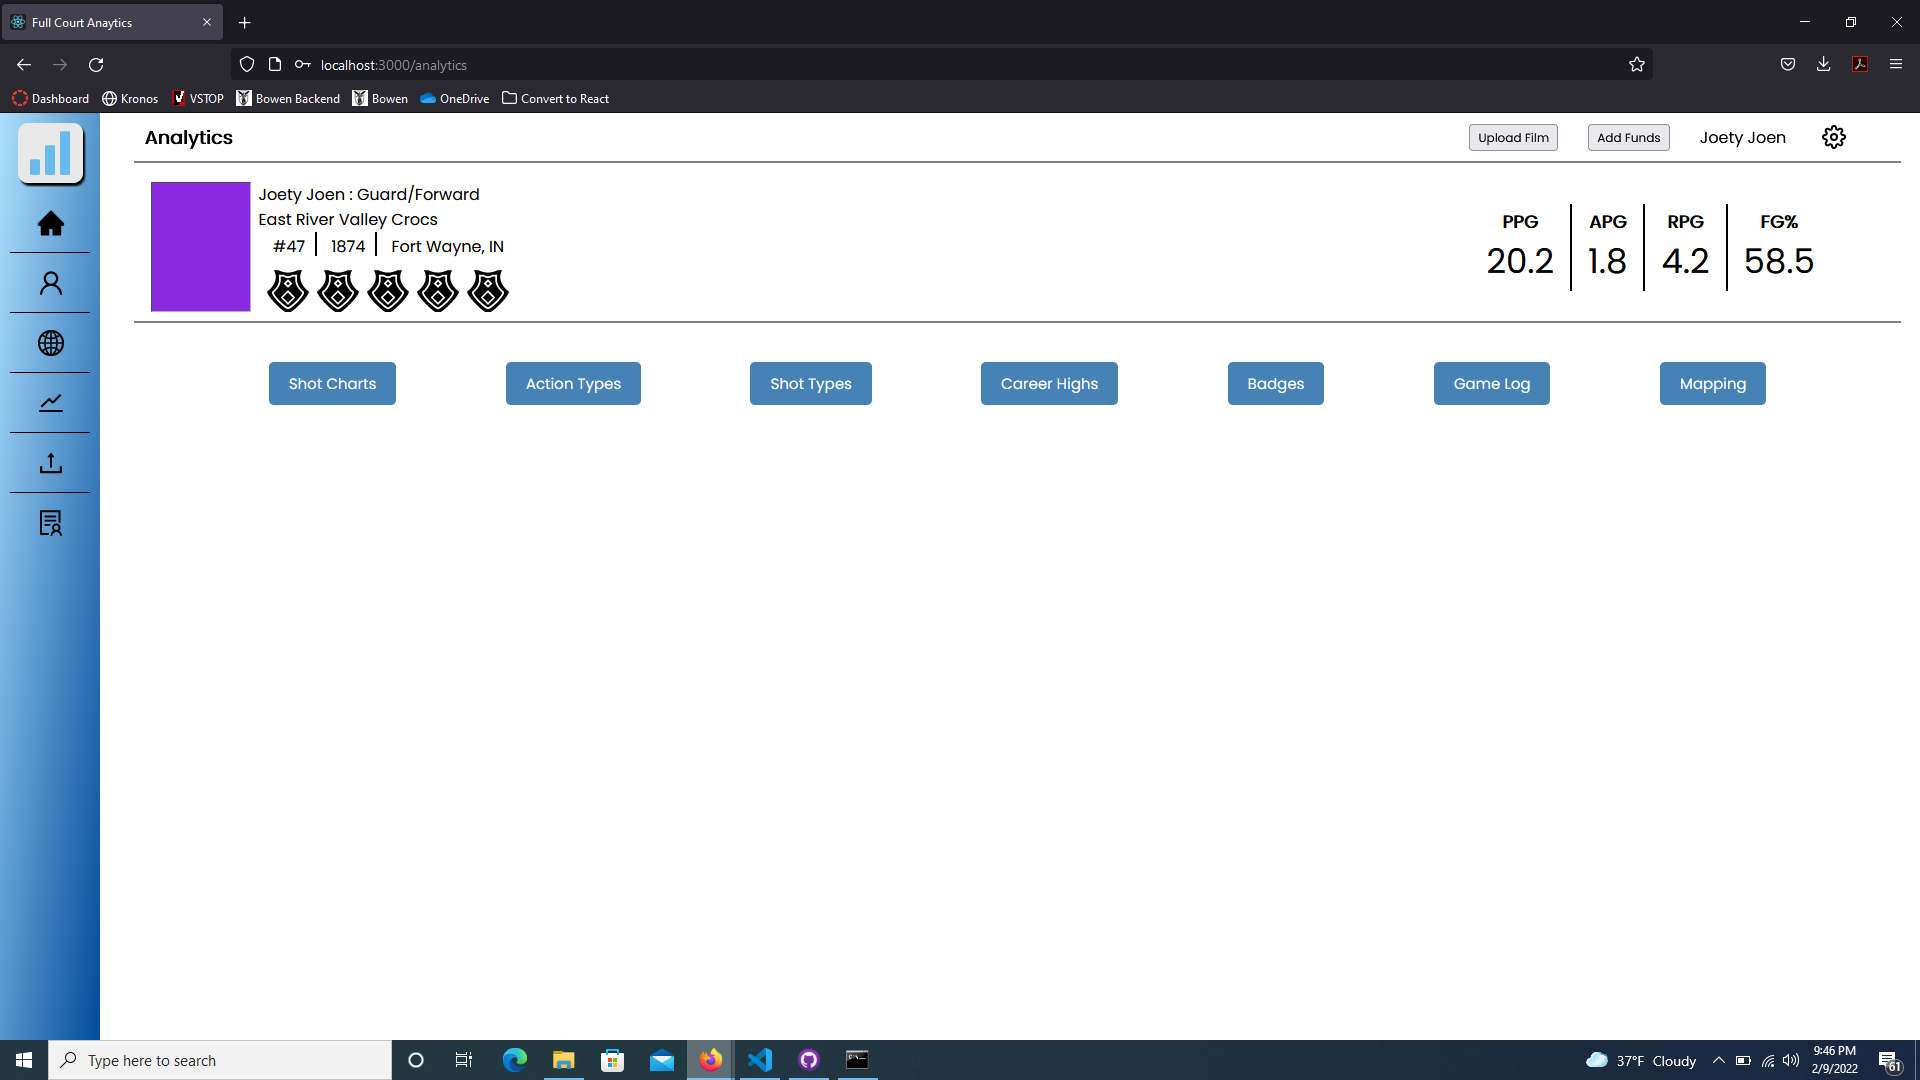
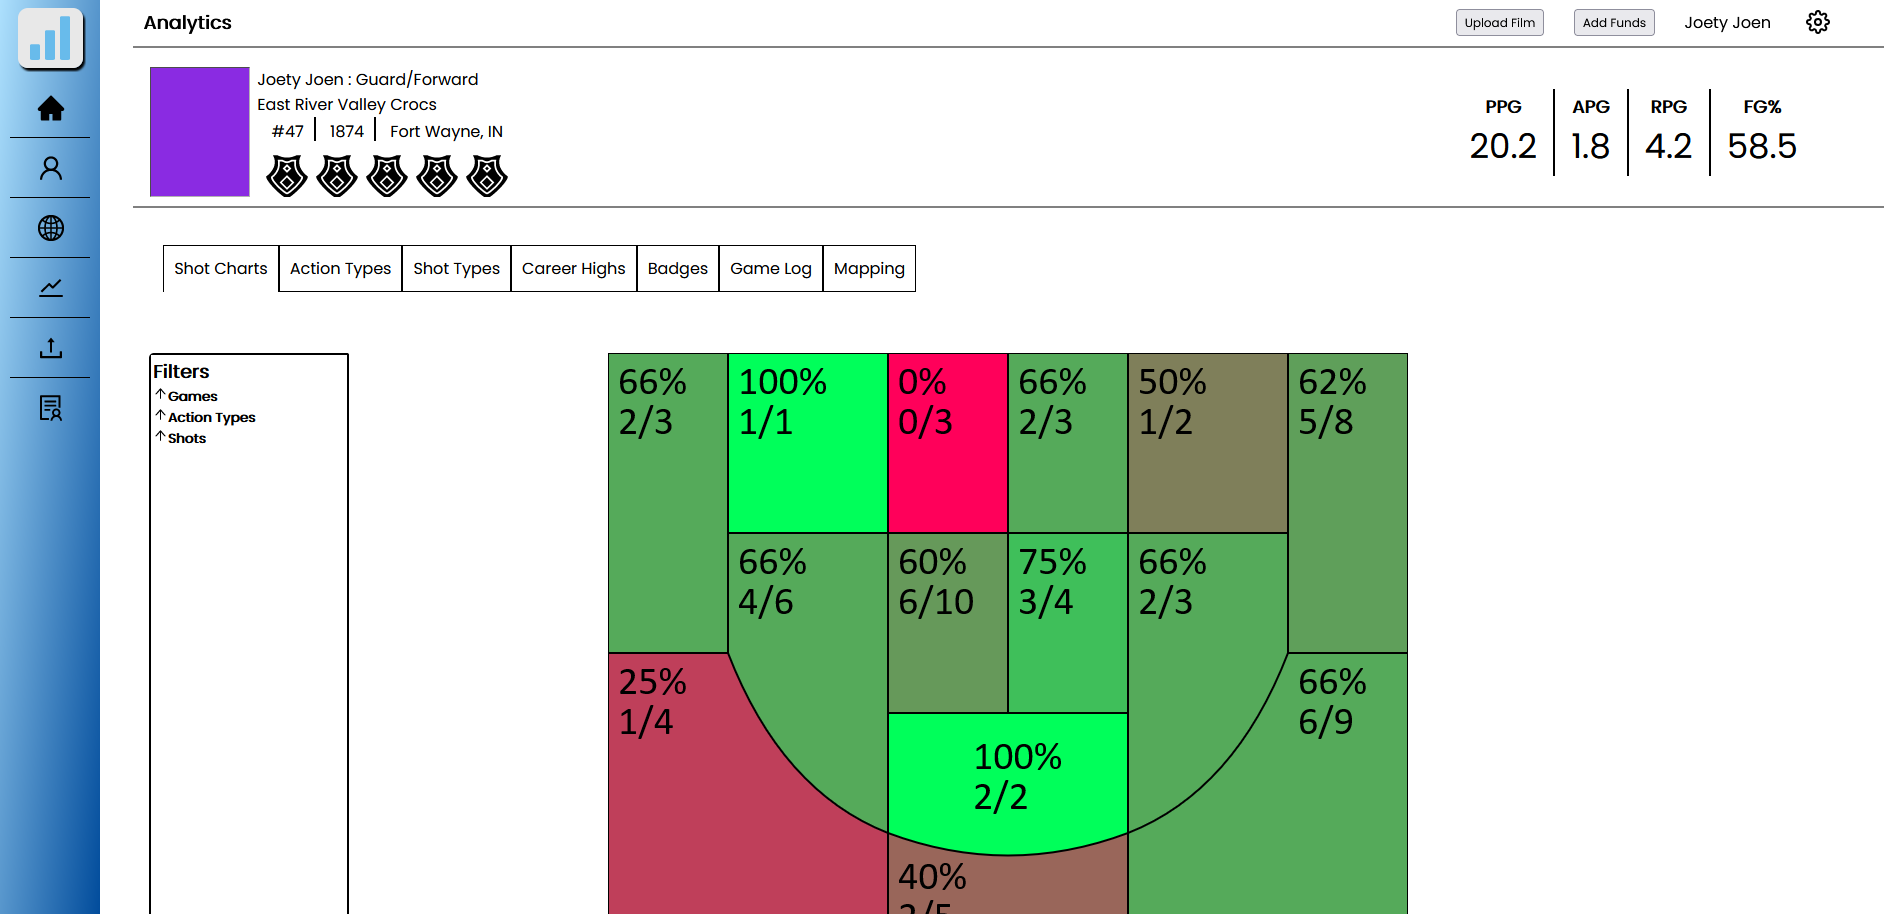
Iteration 4 docs

diff --git a/Documentation/User.md b/Documentation/User.md
@@ -2,62 +2,80 @@
 
 ## **As a player**
 
-Go to fullcourtanyalytics.com
+Navigate to fullcourtanyalytics.com
 
-Log into your account or click *register for an account* at the botton of the screen
+Click *register for an account* at the botton of the screen
 
-If user is registering for an account fill out the form and click register once you've completed (or click "go back" if you already have an account)
+Fill out the form and click register once you've completed
 
-![Screen Shot 2021-12-06 at 8 52 35 PM](https://user-images.githubusercontent.com/70355847/144951502-eb41a8e8-b5d8-4fe7-ad3a-e7e319da1deb.png)
+![Full Court Analytics Registration Form](https://user-images.githubusercontent.com/70355847/144951502-eb41a8e8-b5d8-4fe7-ad3a-e7e319da1deb.png)
 
-Once signed up enter username/email address and password to sign in (skip if you have account)
+Once signed up enter email address and password to sign in
 
-![Screen Shot 2021-12-06 at 8 53 44 PM](https://user-images.githubusercontent.com/70355847/144951614-db3f350d-5849-4982-b71e-b6a90522379f.png)
+![Full Court Analytics Login Page](https://user-images.githubusercontent.com/70355847/144951614-db3f350d-5849-4982-b71e-b6a90522379f.png)
 
 Access the site header settings gear at the top right of the screen
 
-From there you can access the account settings page where it will ask you personal information, fill out the form as much as you want
+![Settings Gear Icon](/assets/gear_icon.png)
 
-![Screen Shot 2021-12-06 at 8 54 44 PM]()
+From there you can access the account settings page by selecting 'Account' where it will ask you personal information, fill out the form as much as you want
+
+![Account Settings Page](/assets/settings_page.png)
 
 Acessing the side bar, you can select the profile page which will have all of your information you just submitted in the account settings page
 
-![Screen Shot 2021-12-06 at 9 57 51 PM](/assets/profile.png)
+![Profile Page](/assets/profile.png)
 
 Accessing the side bar again, you can select the the overview page which will show you 3 circle graphs and a bar graph of your averages
 
-![Screen Shot 2021-12-06 at 10 52 51 PM](/assets/overview.png)
+![Overview Page](/assets/overview.png)
+
+![Overview Page Part 2](/assets/overview_two.png)
 
 Accessing the side bar again, you can select the video upload page where you will find all the videos you have uploaded with some basic information.
 
-![Screen Shot 2021-12-06 at 9 03 53 PM](/assets/uploaded_videos.png)
+![Video Upload Page](/assets/uploaded_videos.png)
 
 Access the site header to fill out the video upload form and insert a youtube link then click the "upload film" button to upload your game film to Full Court Analytics.
-![Video Upload Modal](/assets/upload_modal.png)
+![Video Upload Form](/assets/upload_modal.png)
 
-Accessing the side bar again, you can select the analytics page where you will find multiple buttons:
-![Screen Shot 2021-12-06 at 9 07 51 PM](/assets/analytics.png)
-
+Accessing the side bar again, you can select the analytics page where you will find multiple tabs:
+![Analytics Page](/assets/analytics.png)
 
 Shot Chart:
 Shot charts show the percentage of player shots according to certain game, action type, and shot type filters
-![Screen Shot 2021-12-06 at 9 07 51 PM](/assets/shot_charts.png)
+![Shot Chart Analytics Tab](/assets/analytics.png)
+
+Action Types:
+Action Types show the percentile ranking and a table with more stats for various actions the annotaters record
+![Action Types Analytics Tab](/assets/action_types.png)
+
+Shot Types:
+Shot Types show the percentile ranking and a table with more stats for various shots the annotaters record
+![Action Types Analytics Tab](/assets/action_types.png)
 
 Career Highs:
 Career Highs show the top three career highs based on annotated videos in various categories
-![Screen Shot 2021-12-06 at 9 07 51 PM](/assets/career_highs.png)
+![Career Highs Analytics Tab](/assets/career_highs.png)
 
-Accessing the side bar again, you can select the game log page where you will find a log of all uploaded games and box score:
-![Screen Shot 2021-12-06 at 9 07 51 PM](/assets/game_log.png)
+Badges:
+Badges has the top ten badges the player has earned through their uploaded games that have been annotated
+![Badges Analytics Tab](/assets/badges.png)
+
+Game Log:
+Game Log is where you will find a log of all uploaded games and box scores
+![Game Log Analytics Tab](/assets/game_log.png)
+
+Mapping:
+Mapping has more overall percentile charts and a player map that will distinguish between two different data sets of games for a player and display a skills mapping radar chart
+![Mapping Analytics Tab](/assets/mapping.png)
 
 Accessing the side bar again, you can select the coach contact page where you will find a list of college basketball coaches:
-![Screen Shot 2021-12-06 at 9 07 51 PM](/assets/coach_contact.png)
+![Coach Contact Page](/assets/coach_contact.png)
 
+Once you're done on the website access the gear icon in the top right corner again and select 'Log Out'
 
-
-Once you're done on the website access the side bar to logout which is located at the bottom of the side bar
-
-## **As a Admin**
+## **As an Analyst**
 
 Go to fullcourtanyalytics.com
 
@@ -65,11 +83,11 @@ Log into your account
 
 ![Screen Shot 2021-12-06 at 8 53 44 PM](https://user-images.githubusercontent.com/70355847/144951614-db3f350d-5849-4982-b71e-b6a90522379f.png)
 
-Once logged in access the side bar at the top left of the screen that are the three lines in a row
+Once logged in access the side bar and click on the 'Annotate Game' button
 
-From there you can select to annotate a game
+![Annotate Game Button](/assets/annotate_game.png)
 
-Select a player you wish to annotate their game film then click the select player
+Select a player whose game film you wish to annotate then click the select player
 
 ![Screenshot (115)](https://user-images.githubusercontent.com/70355847/144955425-2cc88da0-a147-4a7b-acfd-10e467745d09.png)
 

diff --git a/Documentation/Development.md b/Documentation/Development.md
@@ -1,34 +1,52 @@
 
 ## Development
 
+All that is needed to replicate our systems are Node.js and Javascript, and a backend of some sort, be it a fake JSON server or a real one, like firebase
 
-All that is needed to replicate our systems are Node.js and javascript, and a backend of some sort, be it a fake JSON server or a real one, like firebase
-
-DEPENDENCIES
+# DEPENDENCIES:
 Firebase
 React
 Node.js
 Javascript
+Json-server (optional fake back-end, and included in package.json)
 
 React Dependencies:
 Available in package.json
 
-Folder Structure:
 
-FCA > main source folder
+# FOLDER STRUCTURE:
+
+FCA > main source folder, contains all high level information (package manager information, docker container information/build file, local database)
 
 src > contains source code
+
+public > contains production build of site
 
 components > inner props of the pages
 
 contexts > files for the storage of data in accordance with the react hook UseContext
 
-css > style sheets for pages
+css > style sheets, broken into individual component and general page styles
+
+data > static unchanging data, currently a spot for coach contact csv's
 
 firestore > objects to get specific data from the firestore
 
 pages > all the outer containers for any page on the site
 
-CONFIG STUFF:
+# CONFIG:
 Put your personal firebase information in the firebase.cs file
 The addition of any Routes should be done in App.js
+
+
+# DEVELOPMENT: 
+To start the app, make sure your terminal is within the fca folder, and run  > npm start
+
+To start the fake back end, open a second terminal within the fca folder and run > npm run server
+ - to utilize the fake server and not try to get information from the Firebase database (or whichever you want to connect to), you must navigate to the DatabaseAccessor.jsx file (located in /src folder) and change the variable getDataSource from Accounts to LocalDB
+
+
+# ERRORS AND OTHER THINGS
+A main reason for errors in the current application is becuase the information does not persist through page reloads, so check to see if this is still an error
+
+Else, should you encounter an error, find the closest line above where the error happens and type 'debugger' into the source code and save it. Then, rerun the app and open the console in the webpage to walk through the code steps in the debugger. If you don't have the console open, the debugging won't register and the page will run like normal.

diff --git a/Documentation/Deployment.md b/Documentation/Deployment.md
@@ -1,7 +1,7 @@
 
 # Deployment
 
-### This application utilises JavaScript, Node.js, and Node Package Manager, as well as several nonstandard packages
+### This application utilises JavaScript and Node.js, as well as several nonstandard packages
 
 #### This application is meant to be connected to a Firestore database for data storage.
 ### For testing, or to run on a local network, the application can be connected to a JSON server by changing the 'testing' tag in DatabaseAccessor to false
